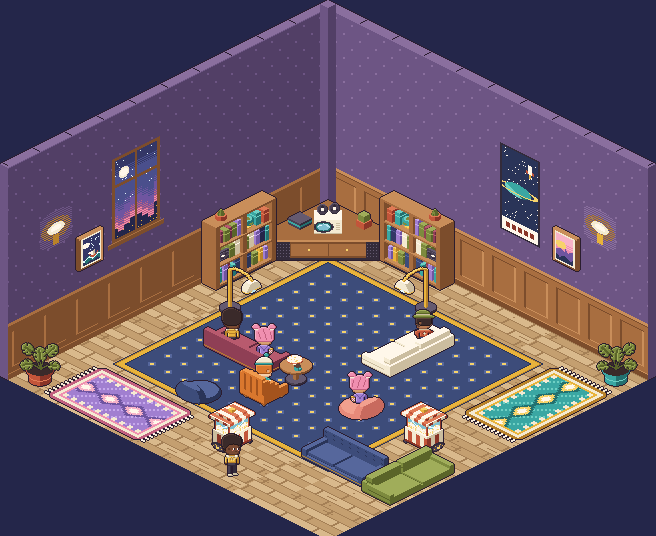
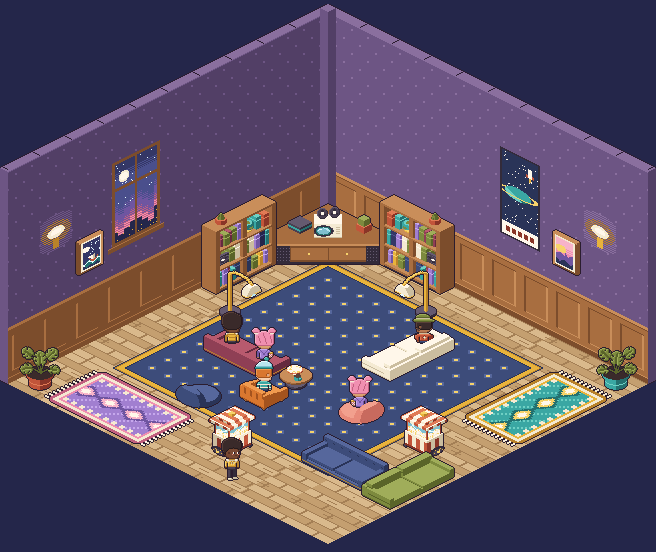
design(site): hero crops show whole sitters; the room art's floor tip whole, caption under it (OME-2285)
- Phone/tablet landing shows the whole 368×224 vignette (was a 154 px band cutting the sitters at the chest).
- Make a room's strip is the vignette's front 136 px, head to seat (was 100 px at 30 %, slicing heads).
- website-room.png re-cropped from the furniture preview at 656×552 so the floor's front tip and the
  wall apex sit inside the frame; 20,963 → 20,804 B. The desktop caption sits under the art, not on it.

diff --git a/apps/web/src/style.css b/apps/web/src/style.css
@@ -157,7 +157,8 @@ legend { padding: 0; margin-bottom: 6px; }
  * view, and the footer must already be below the fold when main.ts swaps in the directory. */
 .welcome { display: grid; grid-template-columns: minmax(0, 1fr); gap: 24px; min-height: 100vh; min-height: 100dvh; align-content: start; }
 .welcome > * { min-width: 0; }
-.entry-art { position: relative; display: flex; justify-content: center; align-items: center; height: 154px; margin: 0; overflow: hidden; border-radius: 4px; }
+/* The vignette shows whole: a crop cut the sitters at the chest (OME-2285). */
+.entry-art { position: relative; display: flex; justify-content: center; align-items: center; height: 224px; margin: 0; overflow: hidden; border-radius: 4px; }
 .entry-art picture { display: contents; }
 .entry-art img { flex: none; width: 368px; height: 224px; image-rendering: pixelated; }
 .entry-art figcaption { position: absolute; width: 1px; height: 1px; overflow: hidden; clip-path: inset(50%); white-space: nowrap; }
@@ -226,7 +227,8 @@ legend { padding: 0; margin-bottom: 6px; }
 .directory > * { min-width: 0; }
 .home h2 { margin: 0 0 8px; font-size: 22px; font-weight: 700; }
 .home .create-room { display: grid; gap: 8px; padding: 0 24px 24px; overflow: hidden; border: 1px solid var(--dusk-divider); border-radius: 4px; background: var(--dusk-surface); }
-.home .create-room::before { content: ""; height: 100px; margin: 0 -24px 12px; background: url("../../../assets/site/how-3-watch.png") 50% 30% / 368px 224px no-repeat; image-rendering: pixelated; }
+/* The vignette's front, head to seat: the four sitters whole, the TV above the strip (OME-2285). */
+.home .create-room::before { content: ""; height: 136px; margin: 0 -24px 12px; background: url("../../../assets/site/how-3-watch.png") 50% 100% / 368px 224px no-repeat; image-rendering: pixelated; }
 .home .create-room h2 { margin-bottom: 4px; }
 .home .check { display: flex; gap: 12px; align-items: flex-start; font-size: 14px; }
 .home .check input { width: 20px; height: 20px; margin: 2px 0 0; flex: none; }
@@ -280,9 +282,10 @@ legend { padding: 0; margin-bottom: 6px; }
   :root:is([data-view="entry"], [data-view="directory"]) .footer-meta { flex-basis: auto; align-items: flex-end; margin: 0 0 0 auto; }
   .welcome { grid-template-columns: 360px minmax(0, 1fr); grid-template-areas: "entry art" "how how" "ext ext"; gap: 0 24px; }
   .entry { grid-area: entry; align-self: start; padding-top: 24px; }
-  .entry-art { grid-area: art; justify-content: flex-start; align-items: flex-start; height: 536px; border-radius: 0; }
-  .entry-art img { width: 656px; height: 536px; }
-  .entry-art figcaption { width: auto; height: auto; left: 40px; bottom: 8px; padding: 2px 8px; clip-path: none; background: rgb(32 27 43 / 85%); color: var(--dusk-muted); font-size: 13px; }
+  /* The caption sits under the art, not on it (OME-2285). */
+  .entry-art { grid-area: art; flex-direction: column; justify-content: flex-start; align-items: flex-start; height: auto; border-radius: 0; }
+  .entry-art img { width: 656px; height: 552px; }
+  .entry-art figcaption { position: static; width: auto; height: auto; margin-top: 8px; clip-path: none; color: var(--dusk-muted); font-size: 13px; }
   .welcome h1 { font-size: 40px; }
   .avatars { grid-template-columns: repeat(4, 74px); }
   .how { grid-area: how; margin-top: 0; }

diff --git a/e2e/landing.e2e.ts b/e2e/landing.e2e.ts
@@ -57,7 +57,7 @@ test("desktop: the room art sits beside the form at one art pixel per CSS pixel;
   const form = await box(page, "#landing");
   const art = await box(page, ".entry-art img");
   expect(art.x).toBeGreaterThanOrEqual(form.x + form.width);
-  expect([art.width, art.height]).toEqual([656, 536]);
+  expect([art.width, art.height]).toEqual([656, 552]);
   const how = await box(page, "#how");
   expect(how.y).toBeGreaterThanOrEqual(form.y + form.height);
   await expect(page.locator("#how")).toContainText("How it works");
@@ -87,7 +87,7 @@ test.describe("phone", () => {
     const form = await box(page, "#landing");
     const art = await box(page, ".entry-art");
     expect(art.y + art.height).toBeLessThanOrEqual(form.y);
-    expect(art.height).toBe(154);
+    expect(art.height).toBe(224);
     const img = await box(page, ".entry-art img");
     expect([img.width, img.height]).toEqual([368, 224]);
     const how = await box(page, "#how");

diff --git a/apps/web/test/landing.test.ts b/apps/web/test/landing.test.ts
@@ -86,7 +86,7 @@ describe("landing: explains the product before asking for anything", () => {
     const wide = sources[0] ?? {};
     expect(wide["media"]).toBe("(min-width: 1104px)");
     expect(wide["srcset"]).toMatch(/^\/assets\/website-room-[A-Za-z0-9_-]+\.png$/);
-    expect([wide["width"], wide["height"]]).toEqual(["656", "536"]);
+    expect([wide["width"], wide["height"]]).toEqual(["656", "552"]);
     const img = attrs(/<img\s[^>]*>/.exec(pic)?.[0] ?? "");
     expect(img["src"]).toMatch(/^\/assets\/how-3-watch-[A-Za-z0-9_-]+\.png$/);
     expect([img["width"], img["height"]]).toEqual(["368", "224"]);

diff --git a/e2e/website-redesign.e2e.ts b/e2e/website-redesign.e2e.ts
@@ -121,7 +121,7 @@ for (const [width, height] of [[360, 740], [412, 915], [1280, 800], [1920, 1080]
     const wide = width >= 1104;
     expect(src).toContain(wide ? "website-room" : "how-3-watch");
     const img = await box(page, ".entry-art img");
-    expect([img.width, img.height]).toEqual(wide ? [656, 536] : [368, 224]);
+    expect([img.width, img.height]).toEqual(wide ? [656, 552] : [368, 224]);
     const form = await box(page, "#landing");
     const art = await box(page, ".entry-art");
     if (wide) expect(art.x).toBeGreaterThanOrEqual(form.x + form.width);

diff --git a/apps/web/index.html b/apps/web/index.html
@@ -23,7 +23,7 @@
       <div class="welcome">
         <figure class="entry-art">
           <picture>
-            <source media="(min-width: 1104px)" srcset="../../assets/site/website-room.png" width="656" height="536" />
+            <source media="(min-width: 1104px)" srcset="../../assets/site/website-room.png" width="656" height="552" />
             <img src="../../assets/site/how-3-watch.png" width="368" height="224" decoding="async" alt="" />
           </picture>
           <figcaption>An illustration of a watch room, in omega-share's pixel style.</figcaption>

diff --git a/docs/design/website-redesign/README.md b/docs/design/website-redesign/README.md
@@ -15,6 +15,6 @@ Design delivery for OME-933; implementation belongs to Lead after independent CE
 
 Before: 10vh welcome margin, narrow 360px directory, geometric avatar buttons, widely separated footer. After: 1104px maximum wrapper, 360px entry form and native room artwork; 328px creation column plus wider room list; actual named avatar sprites; footer in content flow. At 1920px the same readable maximum width is centered. Desktop entry render is 916px high; production initial page was 1266px high at 1280 width, despite its very narrow directory. Phone screens scroll naturally and keep controls at least 44px tall. No decorative animation or redundant panels.
 
-The derivative `assets/site/website-room.png` is a lossless crop (656×536 at +152,+0) of the existing 960×600 furniture room preview. Reproduce with ImageMagick: `magick assets/preview/furniture-room@1x.png -crop 656x536+152+0 +repage PNG8:assets/site/website-room.png`. It keeps original pixel density and the 2:1 room geometry. Original work, credit/license unchanged: `assets/LICENSE`, CC BY-SA 4.0. Existing art remains the source; no third-party reference artwork was imported.
+The derivative `assets/site/website-room.png` is a lossless crop (656×548 at +152,+0, so the floor's front tip is whole) of the existing 960×600 furniture room preview, padded 4 px on top (OME-2285). Reproduce with ImageMagick: `magick assets/preview/furniture-room@1x.png -crop 656x548+152+0 +repage -background "#24264a" -gravity south -extent 656x552 -strip PNG8:assets/site/website-room.png`. It keeps original pixel density and the 2:1 room geometry. Original work, credit/license unchanged: `assets/LICENSE`, CC BY-SA 4.0. Existing art remains the source; no third-party reference artwork was imported.
 
 Researcher subagent inspected production HTTP/footer destinations, current entry-to-lobby behavior, home selectors and legal/source/install resolution. Designer inspected production in headless Chromium, rendered all mockups, measured art and checked horizontal overflow at every required width. Independent acceptance verdict remains with the CEO's design-judge. This submission does not assert PASS or authorize product implementation/merge.
